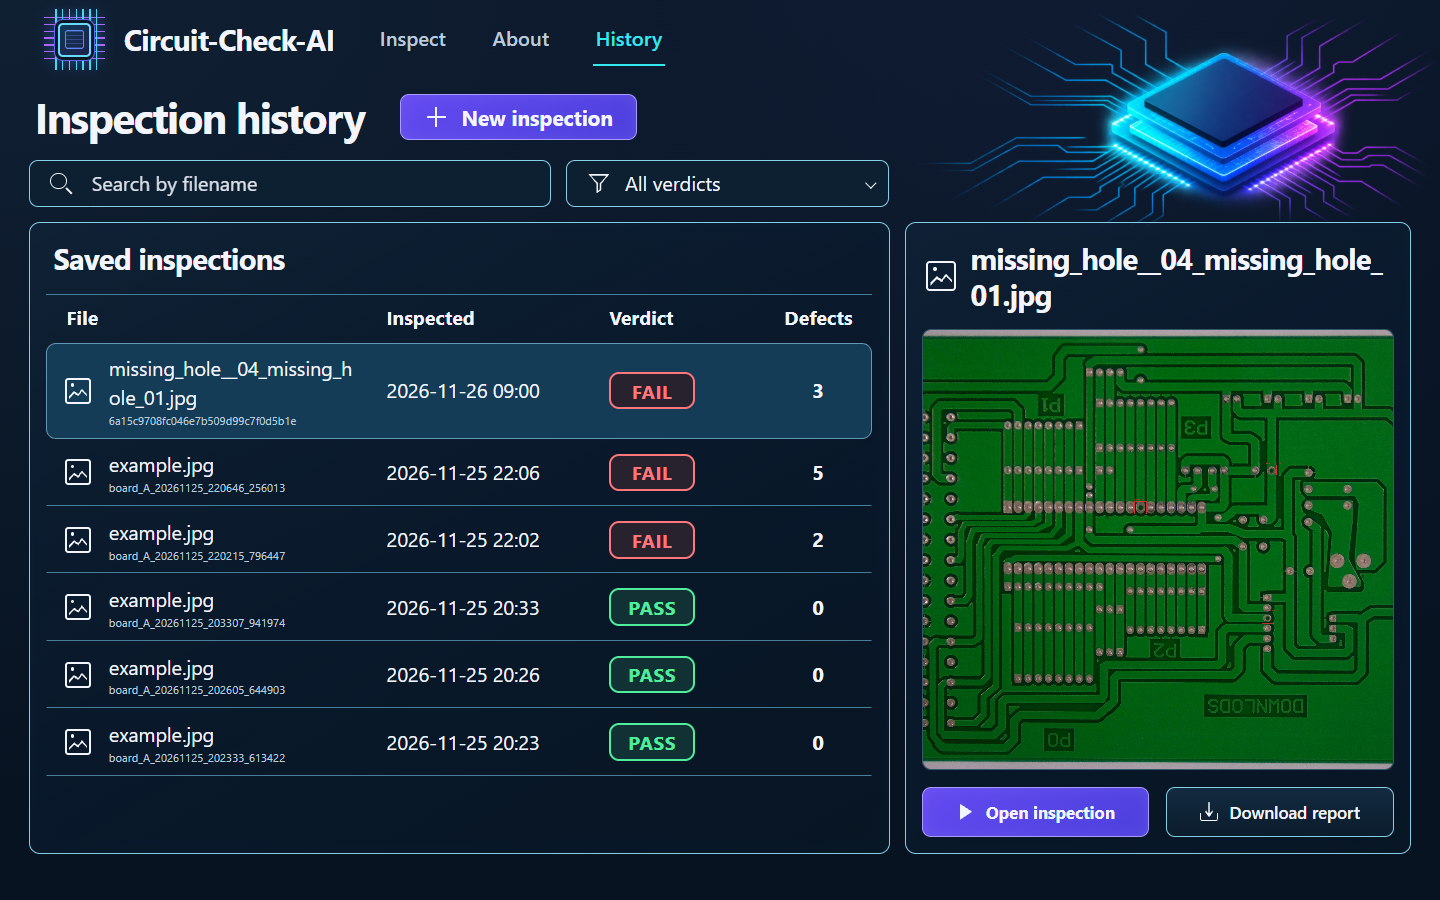
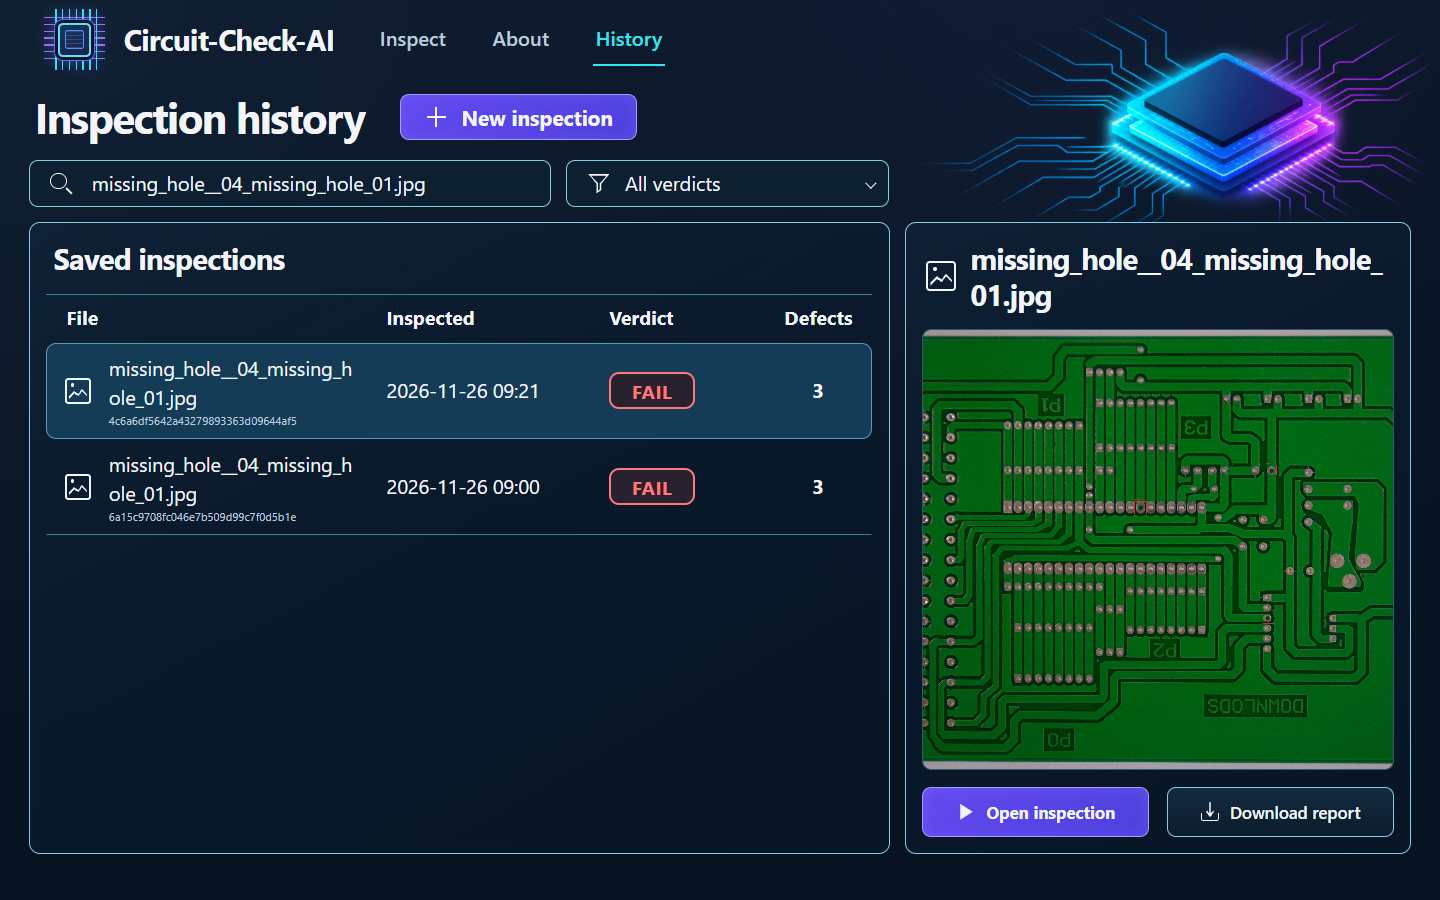
Finalize README with live inspection and PDF preview

diff --git a/README.md b/README.md
@@ -4,22 +4,33 @@
 
 Circuit-Check-AI uses YOLO to locate visible defects in photos of bare printed circuit boards (PCBs). Compare the original and annotated board, zoom to individual findings, and download a PDF inspection report. Completed live runs are saved locally and can be reopened from History.
 
-[Quick start](#quick-start-on-windows) · [Interface](#interface) · [Inspection flow](#inspection-flow) · [Verdict rules](#verdict-rules)
+[Screenshots](#interface) · [PDF report](#pdf-report) · [Windows setup](#quick-start-on-windows) · [Trained model](#download-the-trained-model)
 
 ## Interface
 
-Screenshots from the running HTML, CSS, and JavaScript frontend. Inspect and History show a held-out test photo processed locally with a PCB-trained model.
+Inspect and History show the same held-out PCB photo processed by the running app.
 
 ### Inspect
 
-[![Inspect showing the original and annotated PCB side by side, a FAIL verdict, and three numbered findings](docs/media/inspect.png)](docs/media/inspect.png)
+[![Inspect with synced zoom on both PCB views, a FAIL verdict, and the second of three missing-hole findings selected](docs/media/inspect.png)](docs/media/inspect.png)
 
-Open a saved inspection or preview a JPG, JPEG, or PNG upload. Select a numbered finding or use **Previous** and **Next** to zoom to its location. **Fit board** restores the full view. Synced zoom moves both views together when the matching original is available.
+Select a numbered finding or use **Previous** and **Next** to zoom to its location. **Fit board** restores the full view. Synced zoom moves both views together when the matching original is available.
 
-| About | History |
-| --- | --- |
-| [![About showing the four inspection steps, six defect types, and an annotated PCB](docs/media/about.png)](docs/media/about.png) | [![History showing a selected live run, verdict filters, and Open inspection and Download report buttons beneath the PCB preview](docs/media/history.png)](docs/media/history.png) |
-| See the inspection workflow and supported defect types. | Search by filename, filter by verdict, reopen the exact selected run, or download its PDF. |
+### About
+
+[![About showing four inspection steps, six supported defect types, and an annotated PCB sample](docs/media/about.png)](docs/media/about.png)
+
+### History
+
+[![History showing saved records, verdict filters, and Open inspection and Download report beneath the selected board](docs/media/history.png)](docs/media/history.png)
+
+Search by filename or filter by verdict. **Open inspection** restores the selected record and its matching images, including after refreshing the browser.
+
+## PDF report
+
+Use **Download report** on either Inspect or History. The PDF includes the inspection ID, date, filename, verdict, both PCB views where available, and a numbered findings table with severity, confidence, and confirmed or review status. The example shows the PDF exported from the inspection above.
+
+[![Exported Circuit-Check-AI PDF with navy logo header, red FAIL verdict, both PCB images, and three findings](docs/media/pdf-report.png)](docs/media/pdf-report.png)
 
 ## Quick start on Windows
 
@@ -43,23 +54,30 @@ git sparse-checkout add /frontend_server.py /frontend/ /src/ /outputs/ /requirem
 
 **Open sample inspection**, **History**, and **Download report** work without model weights when the local web app is running. The repository includes five [saved reports](outputs/reports/) with matching [annotated images](outputs/annotated/). The default archived [FAIL sample](outputs/reports/board_A_20261125_220215_796447.json) has two confirmed spurious copper defects and one spur candidate for review. Inspect keeps the **Original PCB** panel visible with an unavailable message for these archives. Their PDFs label the missing original.
 
-### Live uploads
+## Download the trained model
 
-Place a PCB-trained checkpoint at `models/yolo/weights/best.pt`. Obtain it from the team or train it using the steps below. Git ignores checkpoint files, so each checkout needs its own copy for live inference.
+Cloning gives you the app, the prepared dataset, and saved examples. A PCB-trained `best.pt` enables live inspection. Obtain the checkpoint from the team or train it using the steps below. Public release of the verified checkpoint is pending confirmation of redistribution terms.
 
-On **Inspect**, choose a JPG, JPEG, or PNG up to 20 MiB and click **Run inspection**. Each successful run saves `original.png`, `annotated.png`, and `report.json` together under `outputs/inspections/<inspection-id>/`. History lists these runs alongside the bundled archives. The local run directory is Git-ignored.
+If you have `best.pt` in your Windows Downloads folder, run this from the repository root in PowerShell.
 
-**Download report** on either page generates a PDF for the selected record from its saved JSON and images. The PDF includes the verdict, counts, and a numbered findings table with severity, confidence, and confirmed or review status. The JSON remains available to the app. To repeat the live example shown above, upload the [held-out PCB photo](datasets/pcb/images/test/missing_hole__04_missing_hole_01.jpg) with the trained checkpoint in place.
+```powershell
+New-Item -ItemType Directory -Force -Path '.\models\yolo\weights' | Out-Null
+Copy-Item -LiteralPath (Join-Path $env:USERPROFILE 'Downloads\best.pt') -Destination '.\models\yolo\weights\best.pt'
+```
 
-To feature a complete local run, put its ID in `outputs/inspections/featured.json` as `{"id":"<inspection-id>"}`. The default archived sample remains available in History.
+The destination is `models/yolo/weights/best.pt`. Start the app with the [Windows launch command](#quick-start-on-windows) or return to the running app. On **Inspect**, choose a JPG, JPEG, or PNG up to 20 MiB and click **Run inspection**. To repeat the example shown above, use the [held-out PCB photo](datasets/pcb/images/test/missing_hole__04_missing_hole_01.jpg).
+
+The verified checkpoint is a fine-tuned YOLOv8n model for six PCB defect classes. It scored **62.7% mAP50**, **27.1% mAP50–95**, and **56.7% recall** on 120 held-out images. The test split contains labeled defects from one board design, so it cannot estimate the false-fail rate on clean boards.
+
+Each successful run saves `original.png`, `annotated.png`, and `report.json` under `outputs/inspections/<inspection-id>/`. History lists these records alongside the bundled archives. Both the model and live inspection records are Git-ignored.
 
 ## Inspection flow
 
 ```mermaid
 flowchart LR
   A["PCB photo"] --> B["Python + YOLO"]
-  B --> C["Filter boxes"]
-  C --> D["Verdict + images + JSON"]
+  B --> C["Filter detections"]
+  C --> D["Verdict, images, JSON"]
   classDef input fill:#0e4362,stroke:#38bdf8,color:#ffffff
   classDef detection fill:#423078,stroke:#a78bfa,color:#ffffff
   classDef result fill:#145447,stroke:#34d399,color:#ffffff
@@ -76,17 +94,18 @@ The model looks for **missing holes, mouse bites, open circuits, shorts, spurs, 
 flowchart TD
   B["Browser"] -->|"POST /api/inspect"| S["frontend_server.py"]
   S --> P["Python pipeline"]
-  P --> R["Saved run"]
-  S -->|"History and PDF"| A["outputs/"]
+  P --> O["outputs/"]
+  O -->|"Saved data"| S
+  S -->|"History or PDF"| B
   classDef browser fill:#0e4362,stroke:#38bdf8,color:#ffffff
   classDef server fill:#423078,stroke:#a78bfa,color:#ffffff
   classDef output fill:#145447,stroke:#34d399,color:#ffffff
   class B browser
   class S,P server
-  class R,A output
+  class O output
 ```
 
-The server serves the frontend and reads both archived and live records from `outputs/`. For live uploads, it reuses the existing inference, box filtering, decision, and reporting modules.
+The server reuses the inference, box filtering, decision, and reporting modules. For History and PDF export, it reads the selected record's JSON and images from disk.
 
 ## Verdict rules
 
@@ -124,10 +143,12 @@ A confirmed defect takes priority. With no confirmed defect, the decision functi
 
 ## Train and evaluate
 
-The [PCB Defects dataset](https://www.kaggle.com/datasets/akhatova/pcb-defects) is converted from Pascal VOC annotations to YOLO labels and split by board group. The prepared split contains 393 training, 180 validation, and 120 test images. In a sparse checkout, include `/datasets/pcb/` before training. Set the `path` in [data.yaml](datasets/pcb/data.yaml) to your local dataset root, then run [the training script](src/train.py) from the repository root.
+The [PCB Defects dataset](https://www.kaggle.com/datasets/akhatova/pcb-defects) is converted from Pascal VOC annotations to YOLO labels and split by board group. The prepared split contains 393 training, 180 validation, and 120 test images. The [dataset publisher limits use to academic research](https://robotics.pkusz.edu.cn/resources/registerENG/).
+
+In a sparse checkout, include `/datasets/pcb/` before training. Set the `path` in [data.yaml](datasets/pcb/data.yaml) to your local dataset root, then run [the training script](src/train.py) from the repository root.
 
 ```powershell
 .\.venv\Scripts\python.exe src/train.py
 ```
 
-The script fine-tunes YOLOv8n and copies its validation-selected checkpoint to `models/yolo/weights/best.pt`. The checkpoint used for the screenshots scored 62.7% mAP50 and 27.1% mAP50–95 on the 120 held-out images. The test split covers one board design and contains labeled defects, so it cannot estimate the false-fail rate on clean boards.
+The script fine-tunes YOLOv8n and copies its validation-selected checkpoint to `models/yolo/weights/best.pt`.
